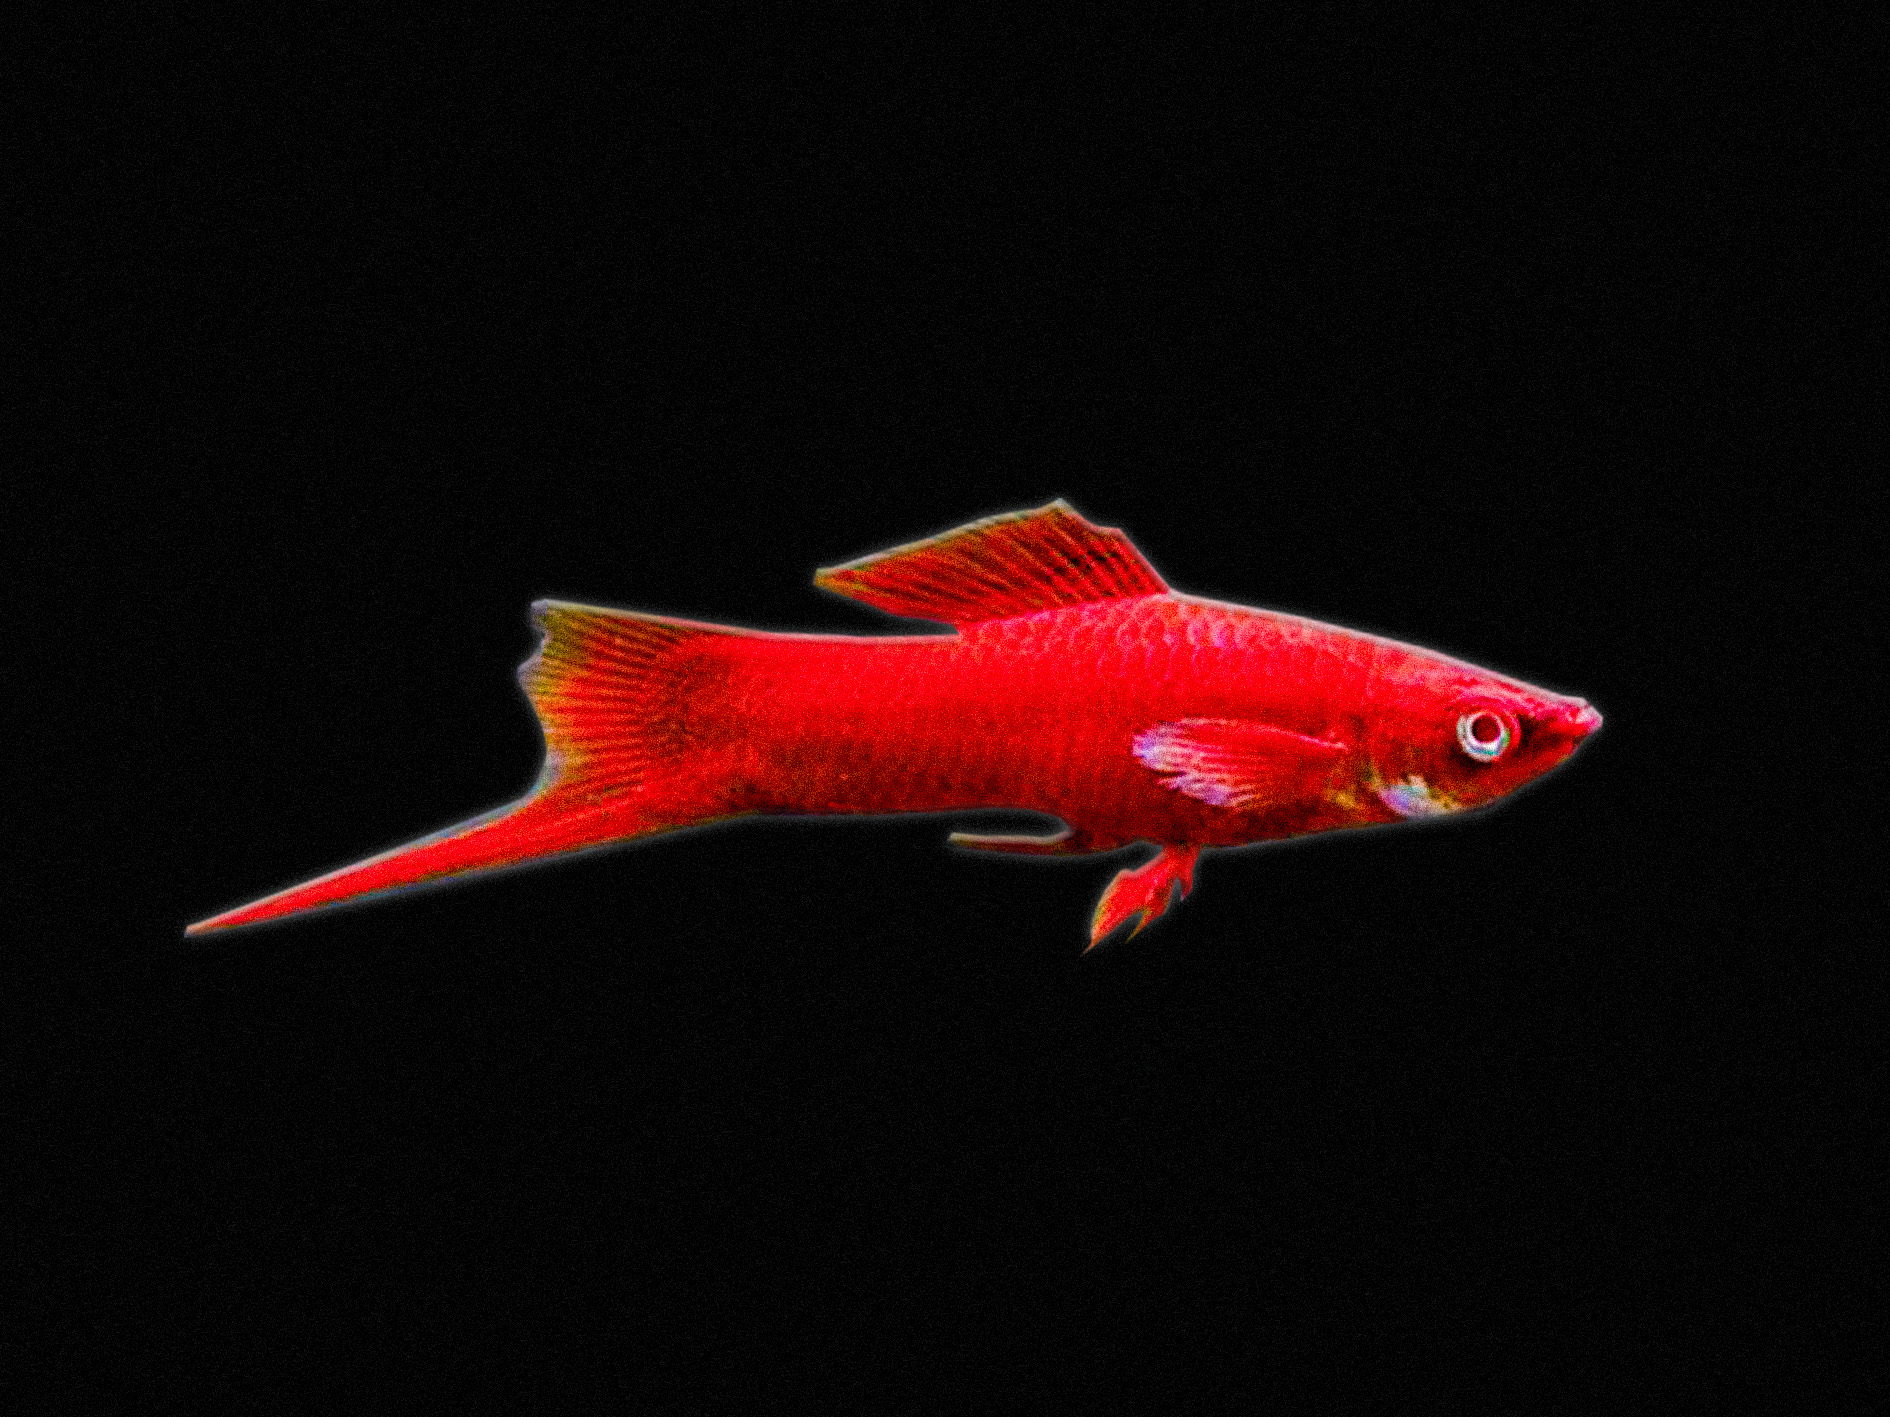
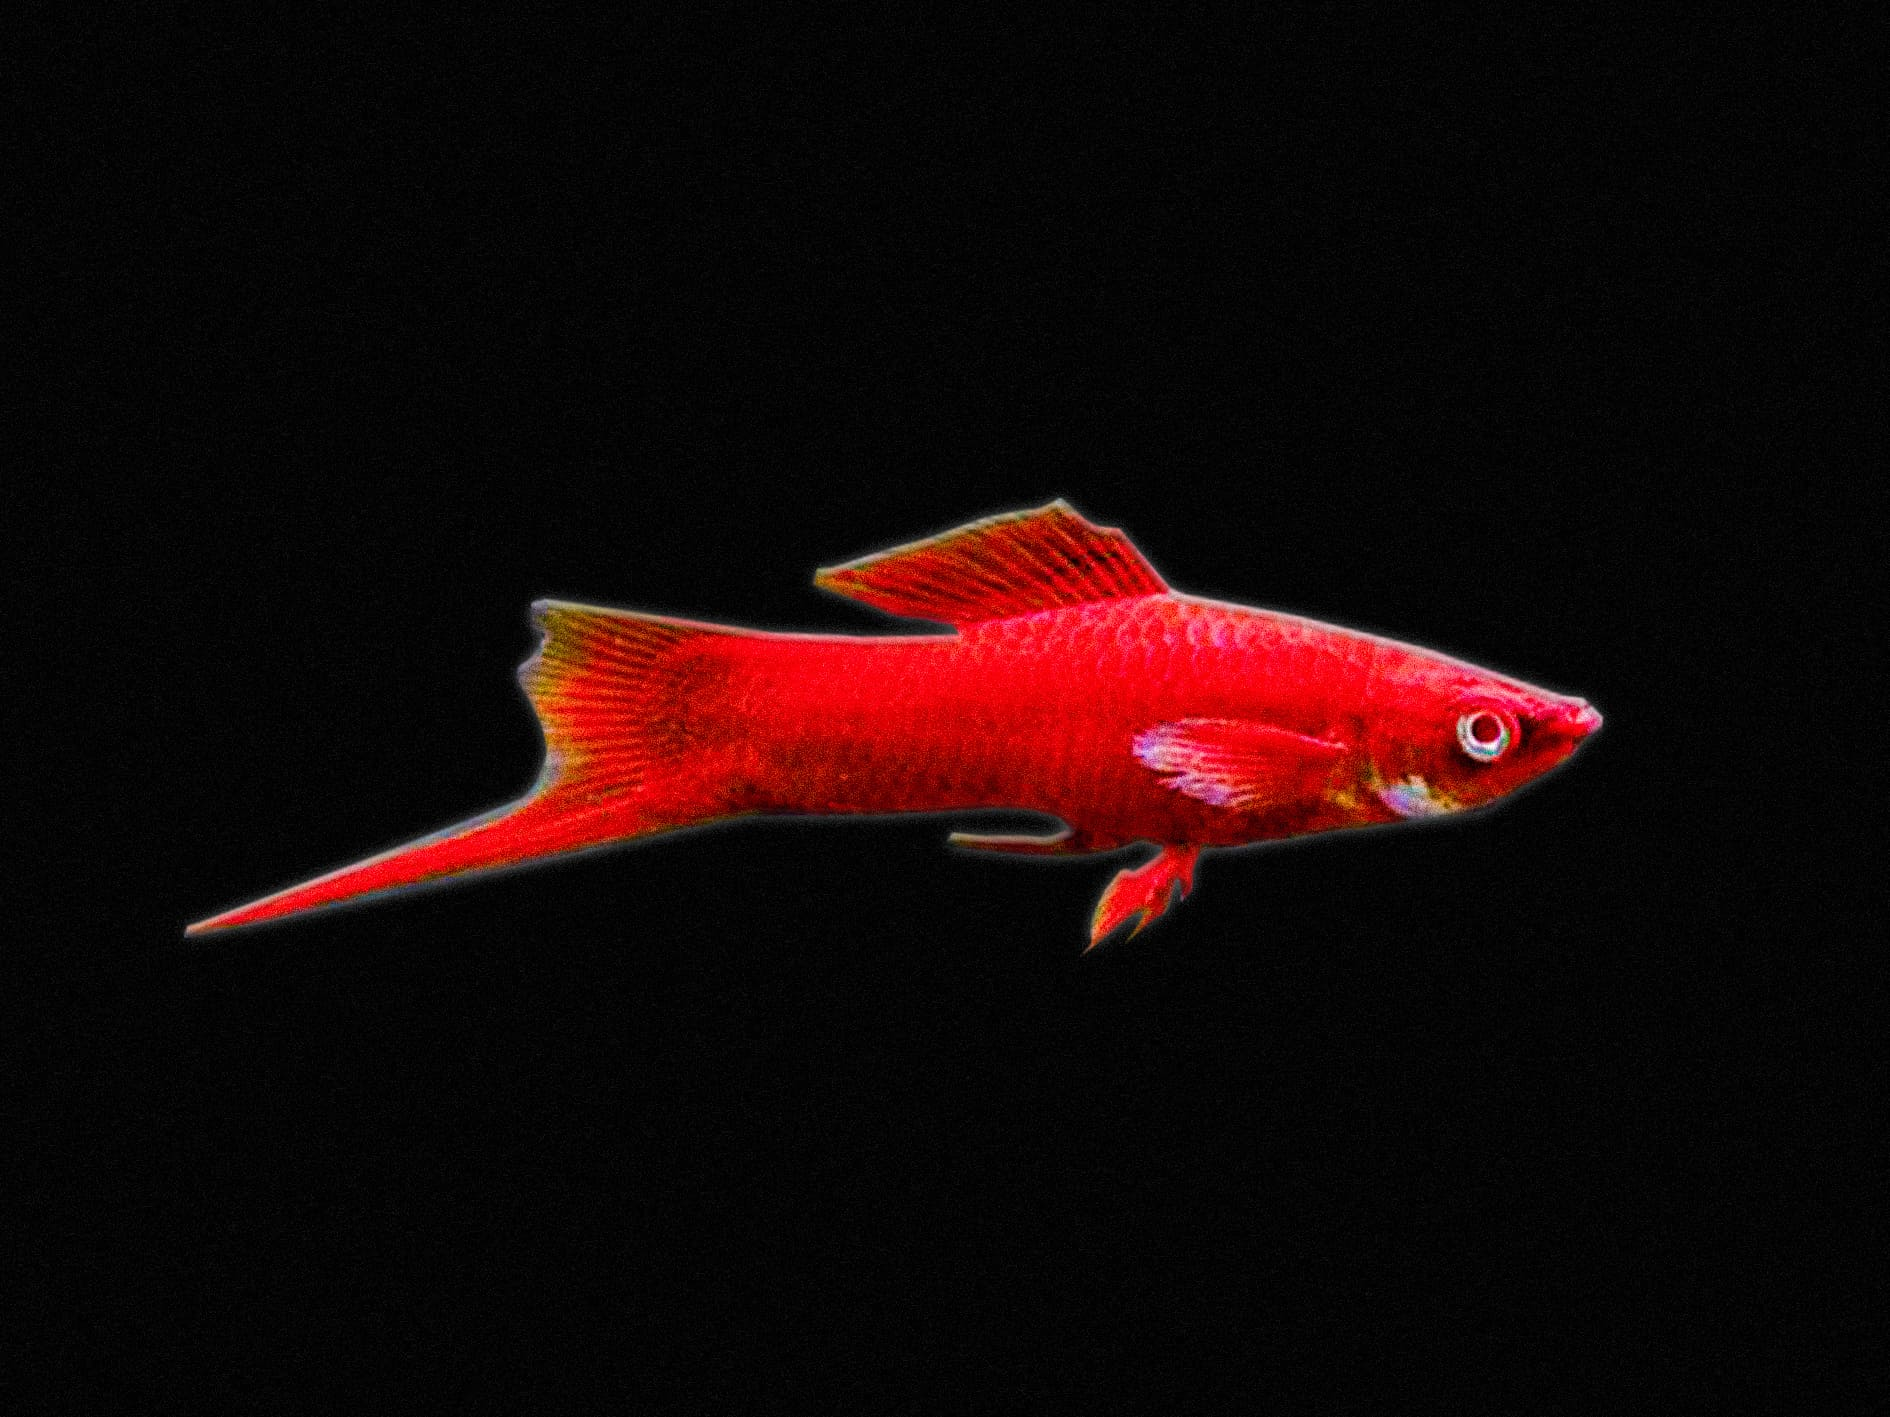
prueba-compresion-4

Changed region(s): [[0.281, 0.3726, 0.8429, 0.59], [0.2185, 0.59, 0.2497, 0.621]]

diff --git a/pages/peces-de-agua-tropical.html b/pages/peces-de-agua-tropical.html
@@ -87,7 +87,7 @@
                 </h2>
 
                 <figure>
-                    <img src="../imagenes/pez-angel-wiki.jpg" alt="pez-angel">
+                    <img src="../imagenes/pez-angel-wiki-otro-formato.webp" alt="pez-angel">
                 </figure>
 
                 <p class="parametros">
@@ -123,7 +123,7 @@
                 </h2>
 
                 <figure>
-                    <img src="../imagenes/guppy-wiki.jpg" alt="pez-guppys">
+                    <img src="../imagenes/guppy-wiki-otro-formato.webp" alt="pez-guppys">
                 </figure>
 
                 <p class="parametros">
@@ -161,7 +161,7 @@
                 </h2>
 
                 <figure>
-                    <img src="../imagenes/betta-wiki.jpg" alt="peces-betta">
+                    <img src="../imagenes/betta-wiki-otro-formato.webp" alt="peces-betta">
                 </figure>
 
                 <p class="parametros">
@@ -197,7 +197,7 @@
                 </h2>
 
                 <figure>
-                    <img src="../imagenes/pez-cebra-wiki.jpg" alt="pez-cebra">
+                    <img src="../imagenes/pez-cebra-wiki-otro-formato.webp" alt="pez-cebra">
                 </figure>
 
                 <p class="parametros">
@@ -233,7 +233,7 @@
                 </h2>
 
                 <figure>
-                    <img src="../imagenes/pez-molly-wiki.jpg" alt="pez-mollys">
+                    <img src="../imagenes/pez-molly-wiki-otro-formato.webp" alt="pez-mollys">
                 </figure>
 
                 <p class="parametros">
@@ -268,7 +268,7 @@
                 </h2>
 
                 <figure>
-                    <img src="../imagenes/pez-cola-espada-wiki.jpg" alt="pez-xipho">
+                    <img src="../imagenes/pez-cola-espada-wiki-otro-formato.webp" alt="pez-xipho">
                 </figure>
 
                 <p class="parametros">
@@ -301,7 +301,7 @@
                 </h2>
 
                 <figure>
-                    <img src="../imagenes/corydora-wiki.jpg" alt="pez-corydora">
+                    <img src="../imagenes/corydora-wiki-otro-formato.webp" alt="pez-corydora">
                 </figure>
 
                 <p class="parametros">

diff --git a/index.html b/index.html
@@ -73,7 +73,7 @@
                 <a href="./pages/peces-de-agua-fria.html">
                     <figure>
 
-                        <img src="./imagenes/karpa-koi-index.jpg" alt="karpa-koi-link-peces-de-agua-fria">
+                        <img src="./imagenes/karpa-koi-index-otro-formato.webp" alt="karpa-koi-link-peces-de-agua-fria">
 
                     </figure>
 
@@ -90,7 +90,7 @@
             <div class="tarjetas-inicio">
                 <a href="./pages/peces-de-agua-tropical.html">
                     <figure>
-                        <img src="./imagenes/escalares-index.jpg" alt="escalare-link-peces-de-agua-tropical">
+                        <img src="./imagenes/escalares-index-otro-formato.webp" alt="escalare-link-peces-de-agua-tropical">
                     </figure>
 
 
